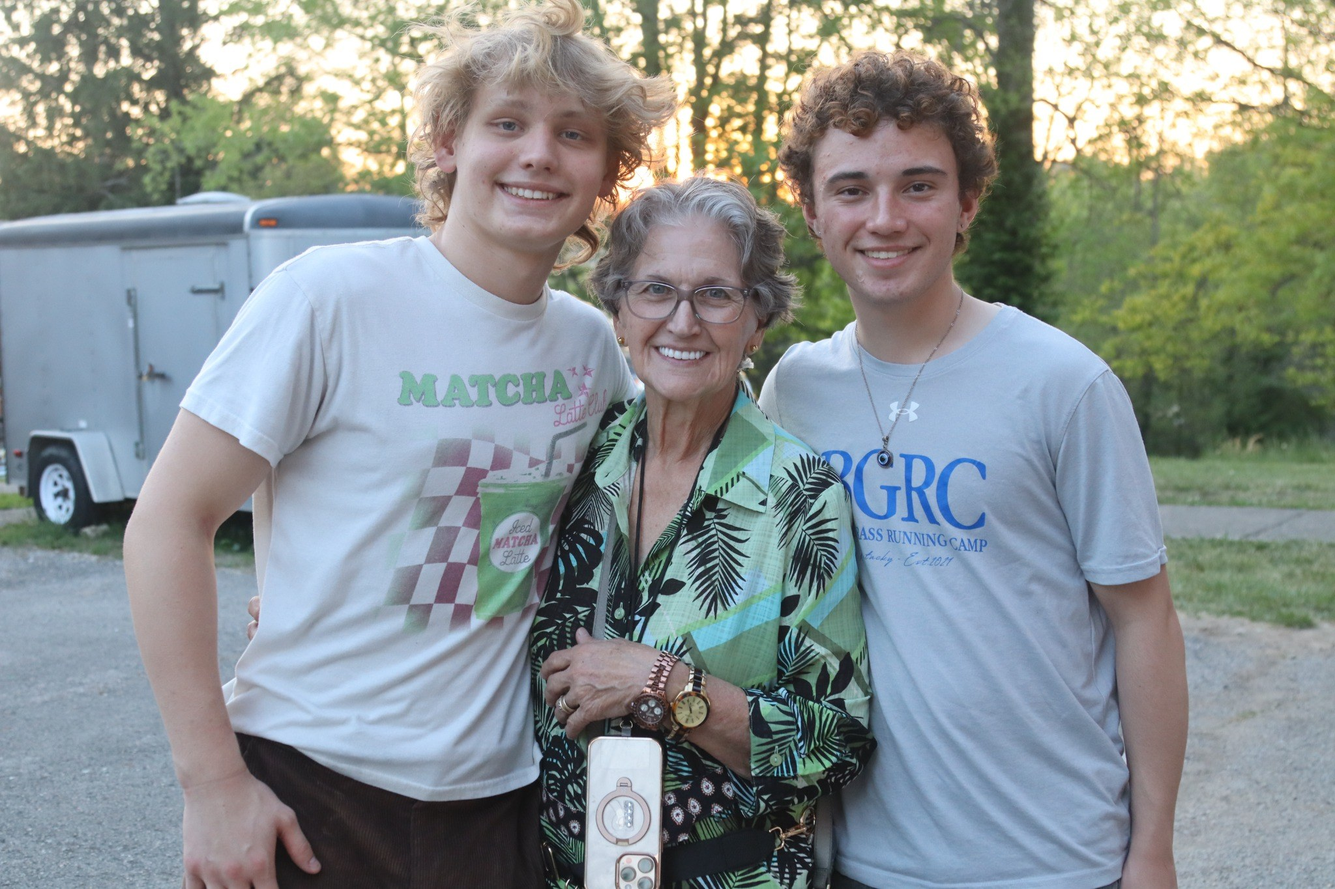
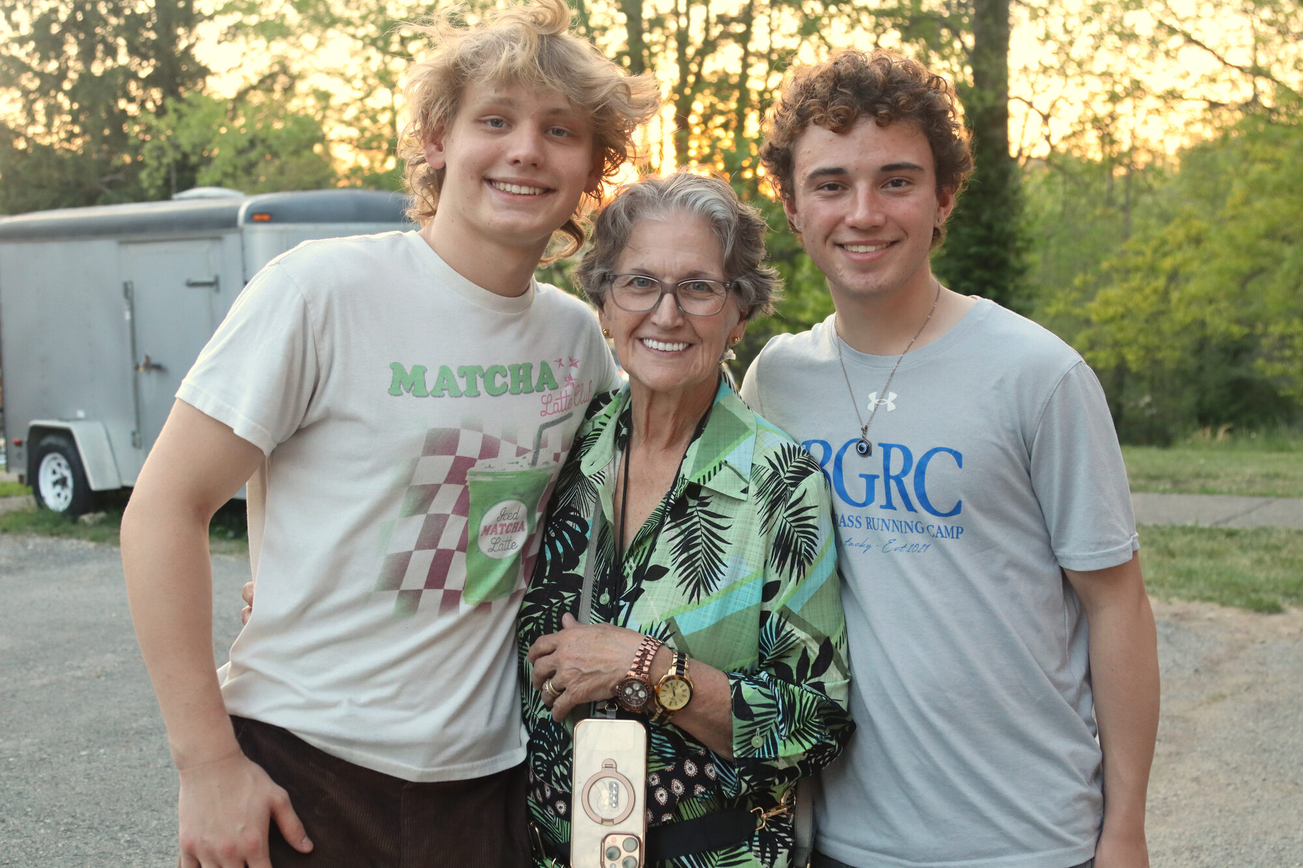
Add files via upload

diff --git a/index.html b/index.html
@@ -26,7 +26,7 @@
 
   <main id="top">
     <section class="hero">
-      <img src="images/stage-event.jpg" alt="Students on stage under colorful event lighting">
+      <img src="images/window-light.jpg" alt="Sunlight and shadow patterns falling across an interior wall">
       <div class="hero-overlay"></div>
       <div class="hero-copy">
         <p class="eyebrow">ZACKERY LAU · PHOTOGRAPHY</p>
@@ -34,7 +34,7 @@
         <p class="hero-sub">Events, portraits, and the moments in between.</p>
         <a class="scroll-link" href="#work">Explore the work <span>↓</span></a>
       </div>
-      <div class="hero-index">01 / 09</div>
+      <div class="hero-index">01 / 14</div>
     </section>
 
     <section class="intro">
@@ -42,9 +42,13 @@
       <div class="intro-grid">
         <h2>People.<br><em>Moments.</em><br>Stories.</h2>
         <p>
-          I photograph people as they actually are — laughing, celebrating,
-          working, performing, and simply being together. My focus is on
-          natural moments that still feel intentional when they're framed.
+          When I look to frame a photo, I look for the memories that people
+          get trapped in. Sitting right outside the frame, I do my best to
+          find the moments where people are happy in their own world.
+          Laughing, celebrating, and simply being together. Natural moments
+          that just come about, where they are unburdened, where I get to
+          look upon, take a snapshot, and pride myself in being there to see
+          it.
         </p>
       </div>
     </section>
@@ -53,7 +57,7 @@
       <div class="work-top">
         <div>
           <p class="eyebrow">THE GALLERY</p>
-          <h2>Selected photographs</h2>
+          <h2>My Gallery</h2>
         </div>
         <div class="filters" role="group" aria-label="Filter photographs">
           <button class="filter active" data-filter="all">All</button>
@@ -100,13 +104,38 @@
         </figure>
 
         <figure class="photo photo-wide" data-category="portrait" data-title="Golden Hour" data-src="images/family-portrait.jpg">
-          <img src="images/family-portrait.jpg" alt="Three people posing together outdoors" loading="lazy">
+          <img src="images/family-portrait.jpg" alt="Two young men smiling with their grandmother at sunset" loading="lazy">
           <figcaption><span>08</span><b>Golden Hour</b><small>Portrait</small></figcaption>
         </figure>
 
         <figure class="photo photo-wide" data-category="event" data-title="The Formal" data-src="images/formal-portrait.jpg">
           <img src="images/formal-portrait.jpg" alt="Four friends dressed formally at an outdoor event" loading="lazy">
           <figcaption><span>09</span><b>The Formal</b><small>Event</small></figcaption>
+        </figure>
+
+        <figure class="photo photo-wide" data-category="portrait" data-title="Golden Hour Lean" data-src="images/three-friends-sunset.jpg">
+          <img src="images/three-friends-sunset.jpg" alt="Three friends leaning on a railing at golden hour" loading="lazy">
+          <figcaption><span>10</span><b>Golden Hour Lean</b><small>Portrait</small></figcaption>
+        </figure>
+
+        <figure class="photo photo-tall" data-category="candid" data-title="Flight Path" data-src="images/birds-in-flight.jpg">
+          <img src="images/birds-in-flight.jpg" alt="A flock of birds flying past a streetlight at dusk" loading="lazy">
+          <figcaption><span>11</span><b>Flight Path</b><small>Candid</small></figcaption>
+        </figure>
+
+        <figure class="photo photo-wide" data-category="candid" data-title="Camp Smiles" data-src="images/camp-friends.jpg">
+          <img src="images/camp-friends.jpg" alt="Three friends smiling together indoors" loading="lazy">
+          <figcaption><span>12</span><b>Camp Smiles</b><small>Candid</small></figcaption>
+        </figure>
+
+        <figure class="photo photo-wide" data-category="event" data-title="Prom Night" data-src="images/prom-group.jpg">
+          <img src="images/prom-group.jpg" alt="Four friends dressed up leaning on a wooden fence" loading="lazy">
+          <figcaption><span>13</span><b>Prom Night</b><small>Event</small></figcaption>
+        </figure>
+
+        <figure class="photo photo-tall" data-category="portrait" data-title="Roadside" data-src="images/roadside-portrait.jpg">
+          <img src="images/roadside-portrait.jpg" alt="A young man posing on a gravel road" loading="lazy">
+          <figcaption><span>14</span><b>Roadside</b><small>Portrait</small></figcaption>
         </figure>
       </div>
     </section>
@@ -115,12 +144,18 @@
       <div class="statement-number">02</div>
       <div>
         <p class="eyebrow">ABOUT THE PHOTOGRAPHER</p>
-        <h2>Photography should feel<br><em>like the memory.</em></h2>
+        <h2>Capturing the moments<br><em>worth remembering</em></h2>
         <p class="statement-body">
-          I'm Zackery Lau, a photographer focused on events and portraits.
-          I like images that feel lived-in rather than overly staged — the
-          expression between poses, the energy of a room, the people who make
-          an event worth remembering.
+          My name is Zackery Lau. Around four years ago, I picked up a camera
+          for the first time, a gift passed down from my grandfather in Hong
+          Kong just as I was starting high school. That camera became the
+          tool that pulled me out of my shell, gave me purpose, and opened a
+          door into a world I couldn't be more appreciative of. Since then,
+          photography has become a constant in my life. I've covered
+          graduations, class trips, proms, formals, and countless moments in
+          between. My expertise lies in candids, events, and portraits, the
+          warm happiness of the room, the laughs and smiles, and the people
+          who make an moment worth remembering.
         </p>
       </div>
     </section>
